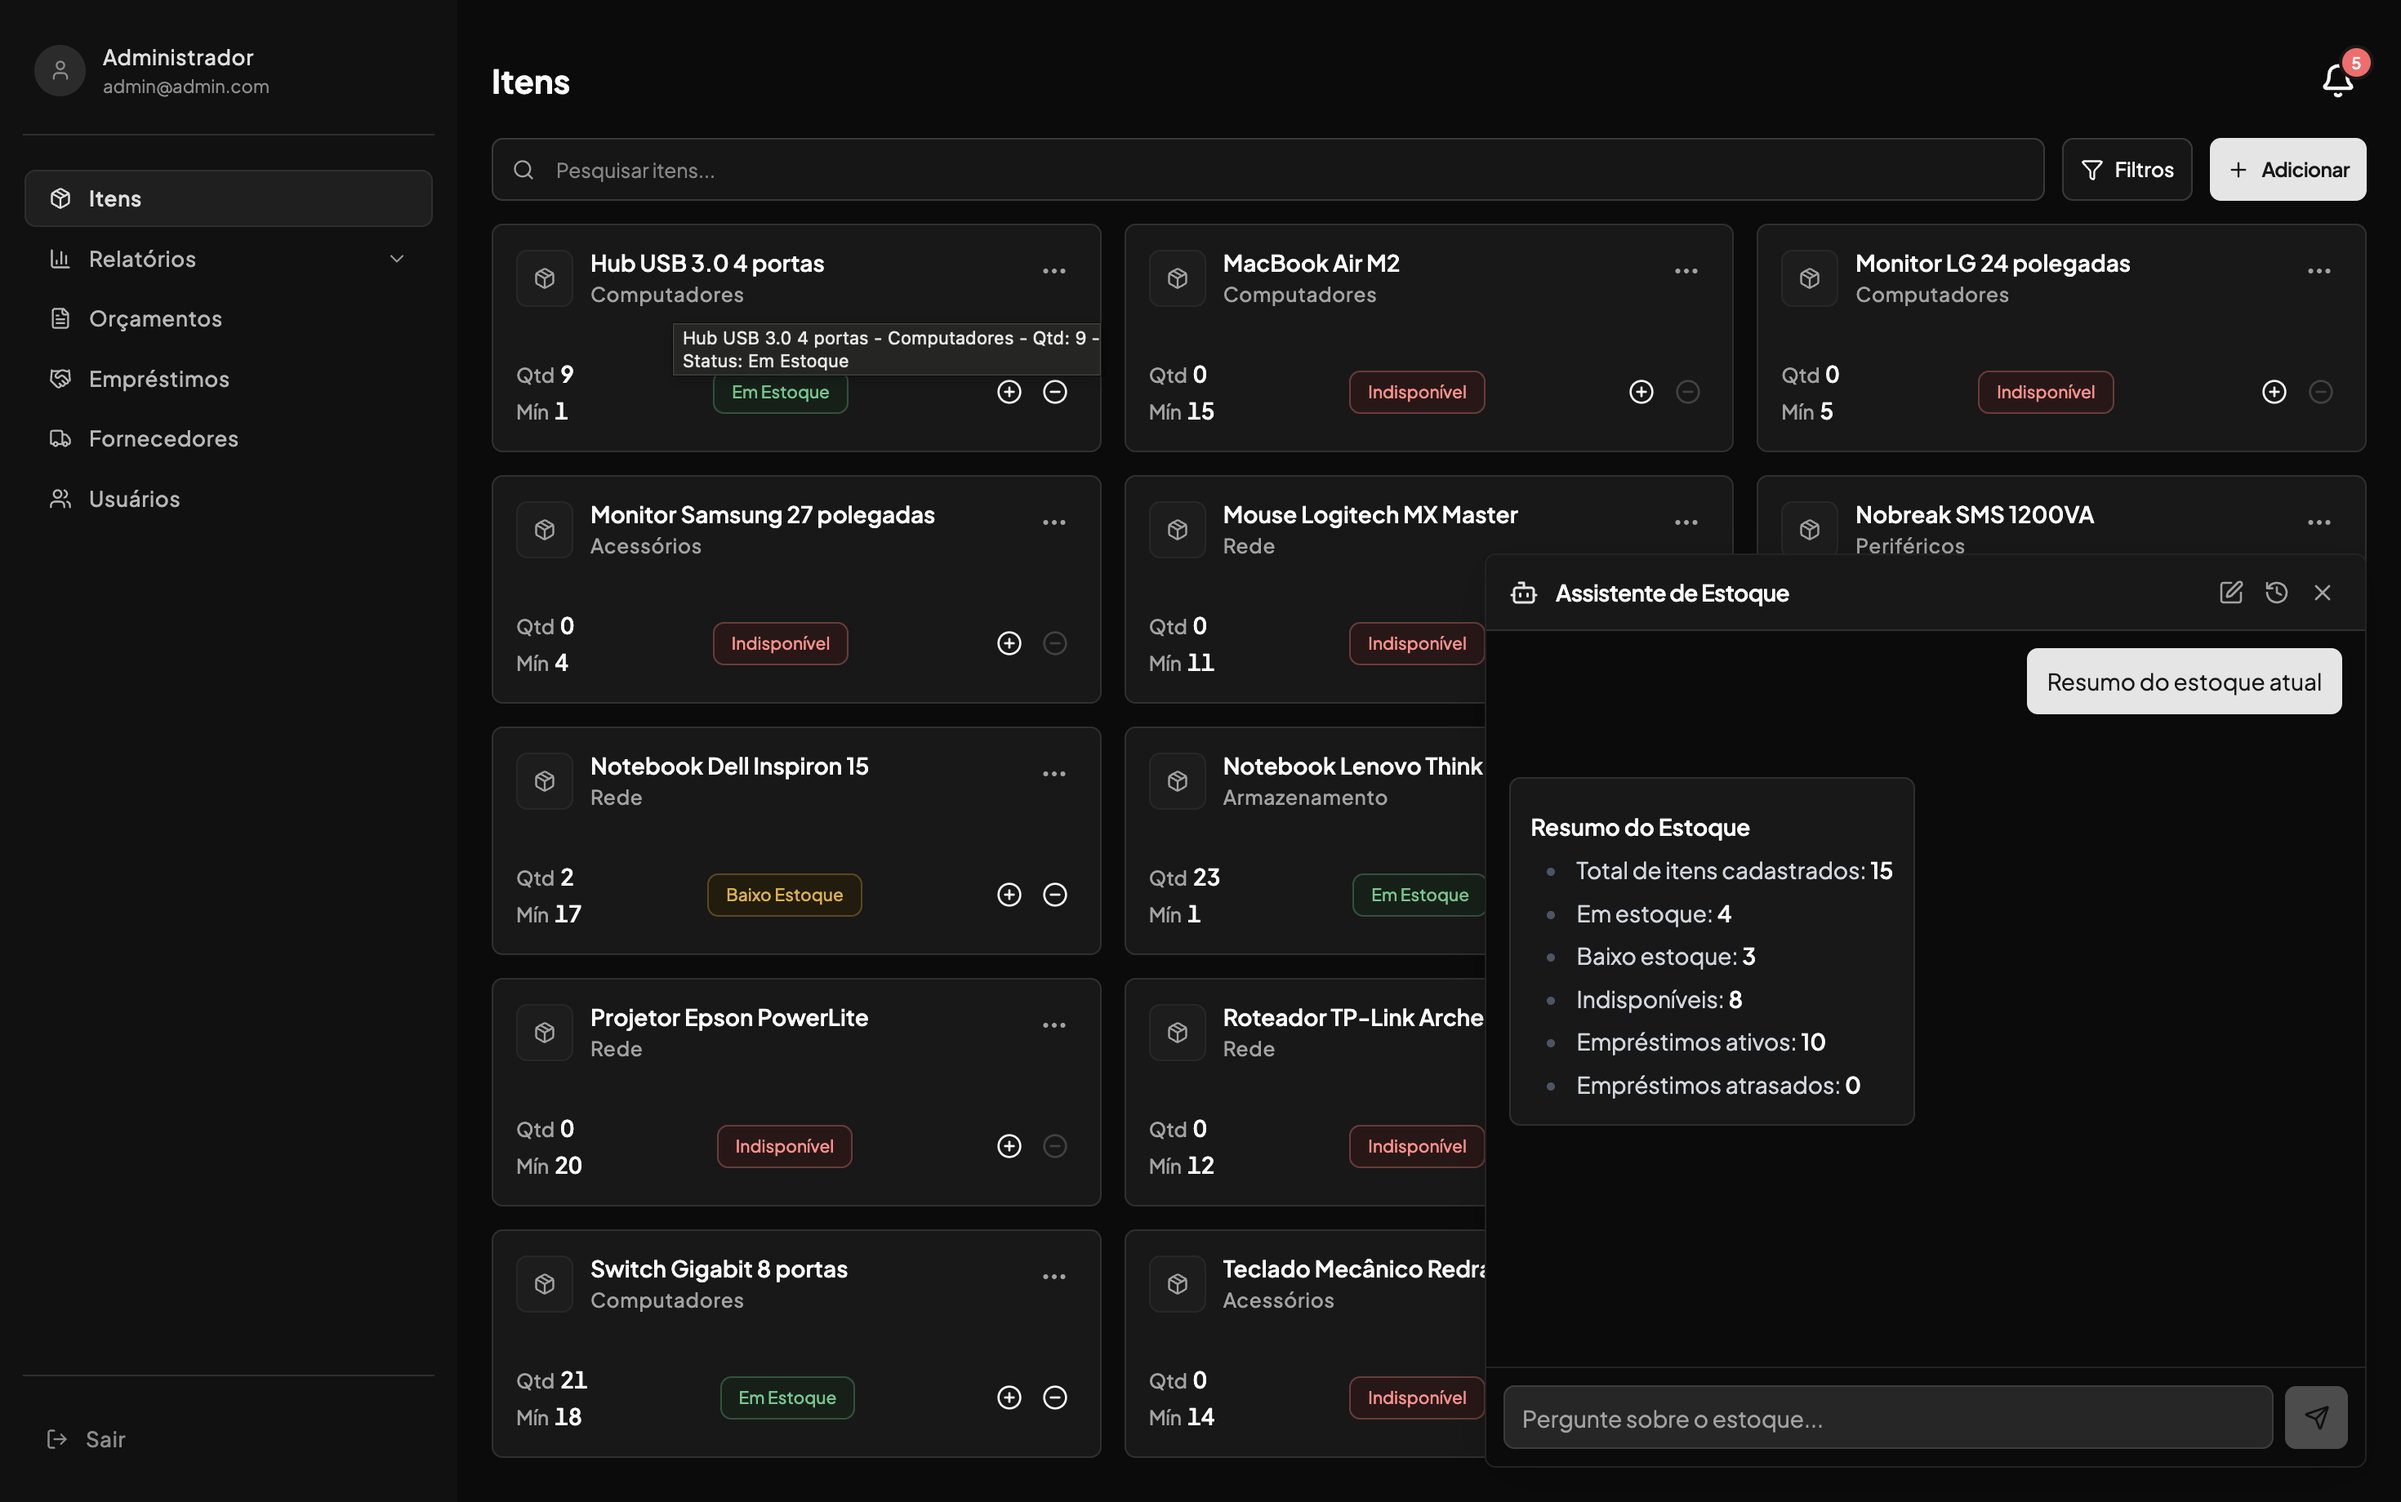
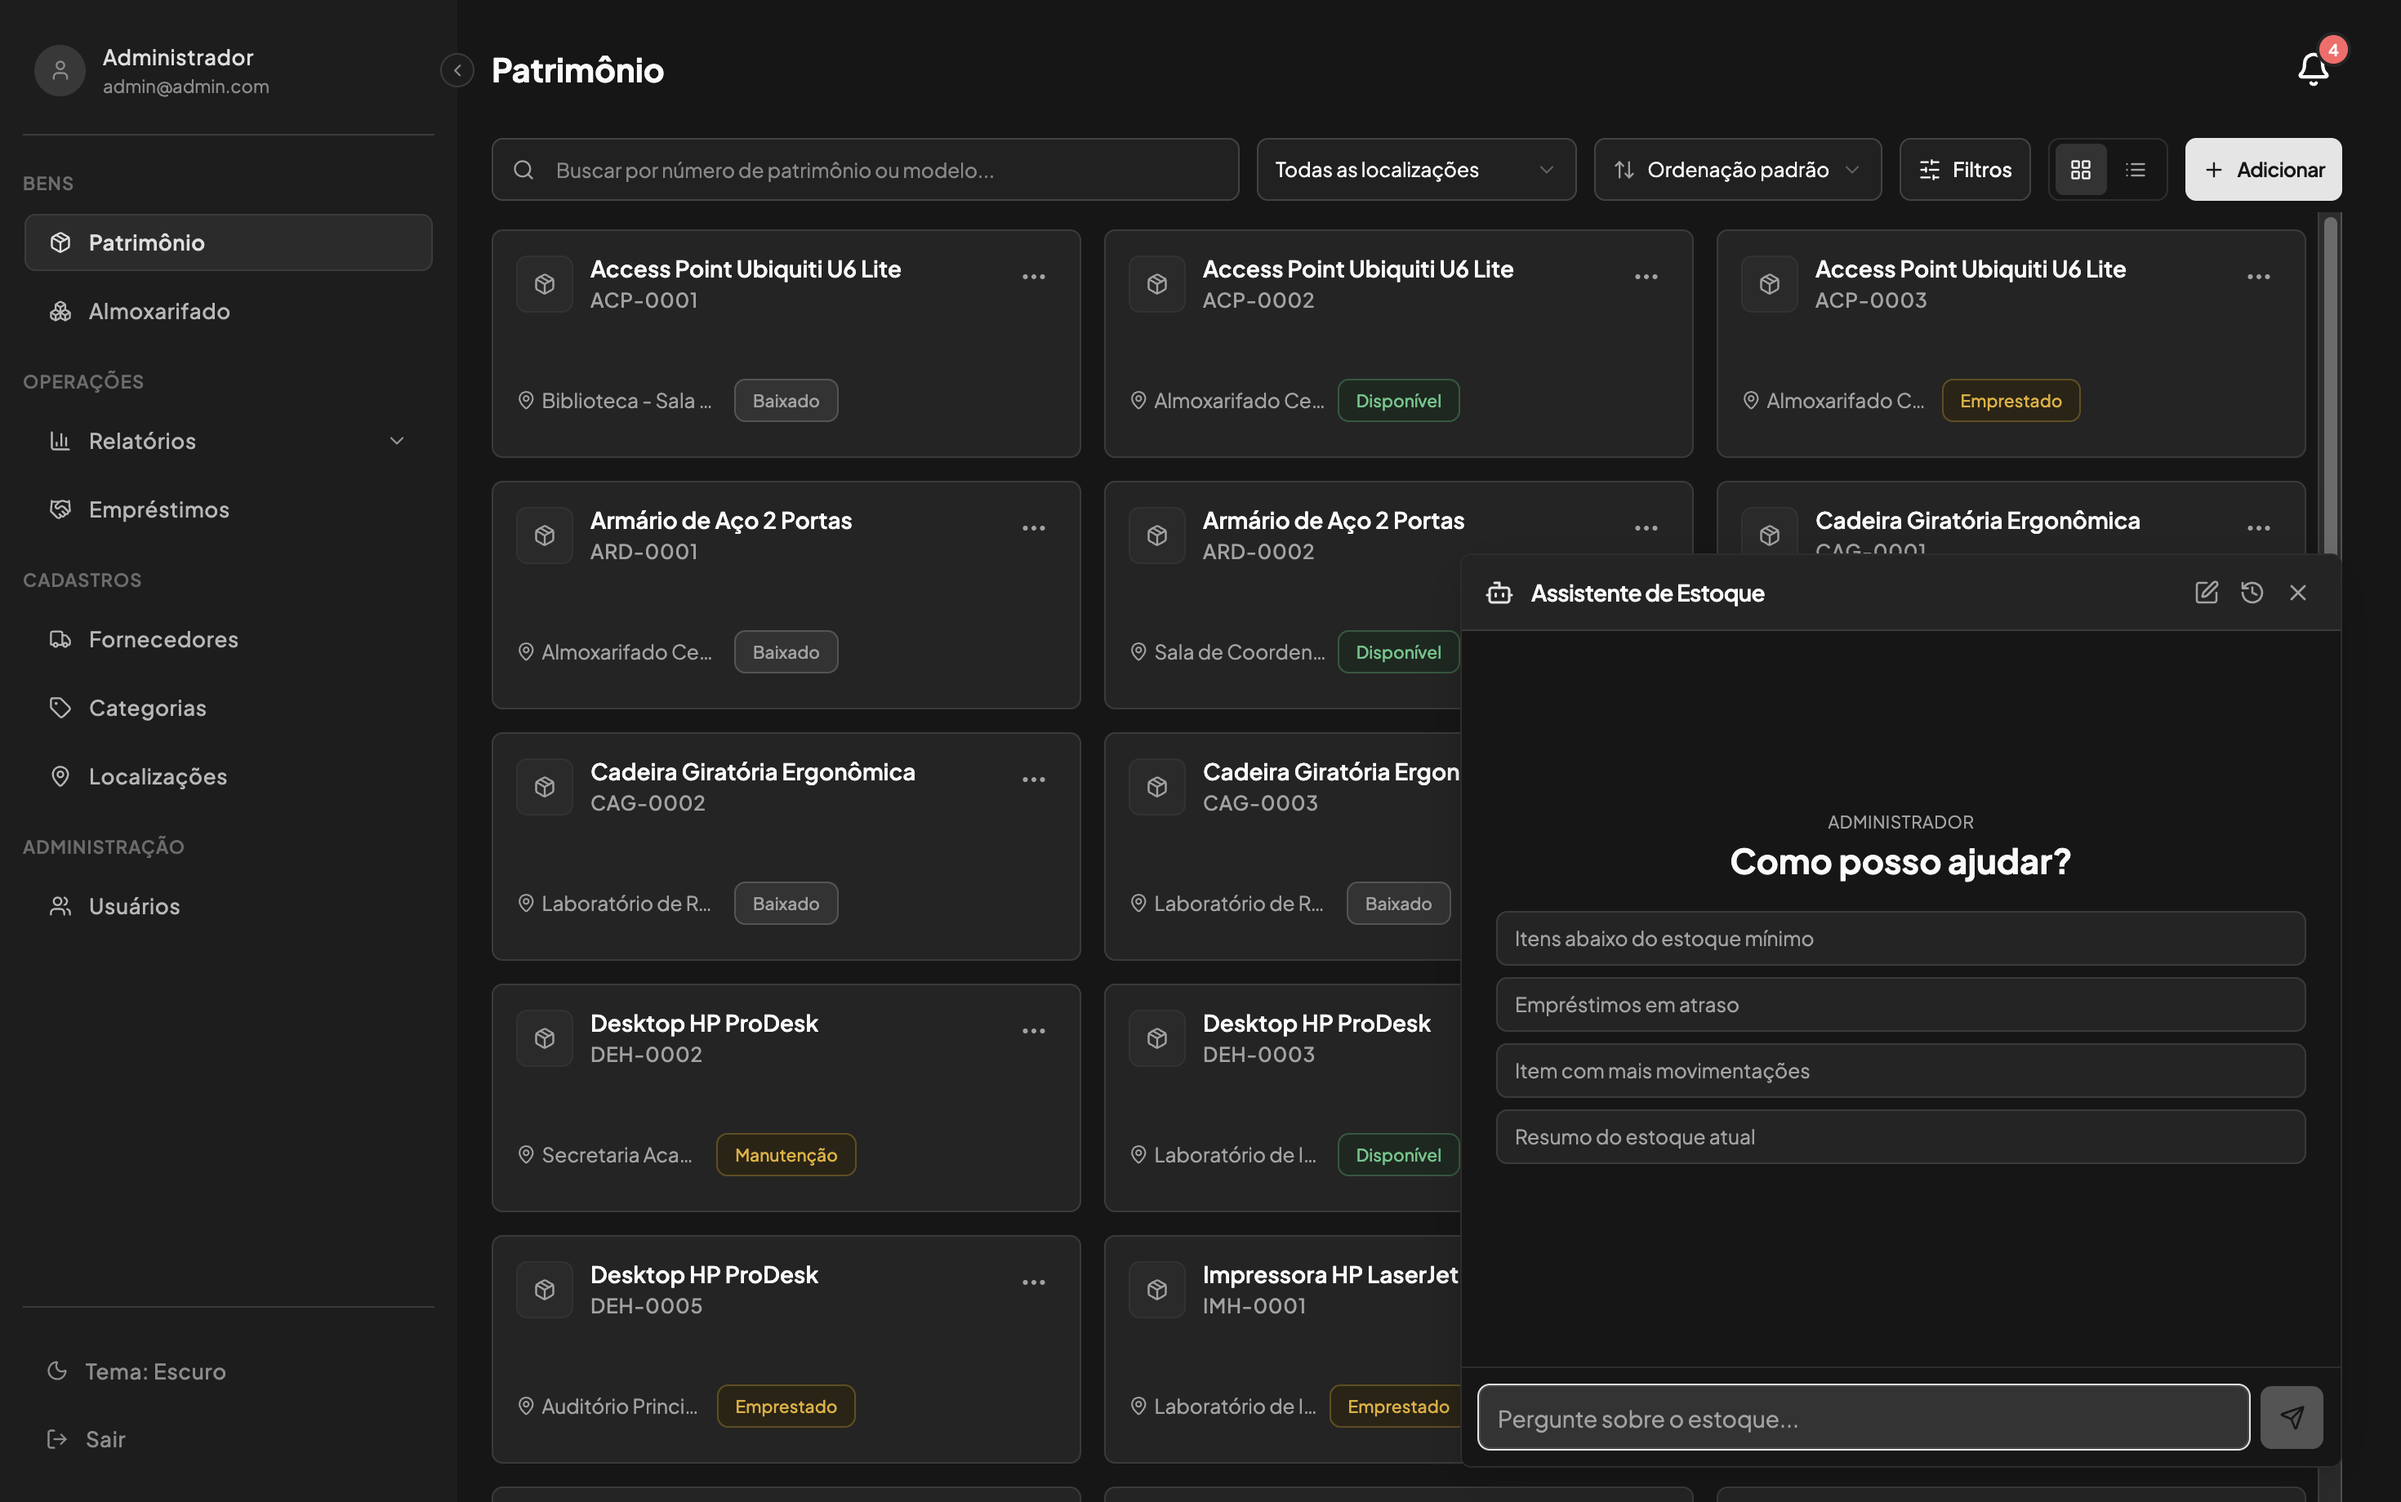
docs: atualiza e reorganiza capturas de tela do README
Substitui prints antigas por versões atuais e reordena na sequência
da sidebar (Bens → Operações → Cadastros → Administração), com Login
e Perfil no topo e Assistente de IA logo após Perfil. Remove a print
de Relatórios (decisão deliberada) e a antiga dashboard-itens (rota
/itens já não existe mais).

Fecha #39

Claude-Session: https://claude.ai/code/session_01Cn1G9ifHYXFWRQPASZzhNu

diff --git a/README.md b/README.md
@@ -30,17 +30,32 @@ Repositórios do projeto no grupo GitLab [`estoque-inteligente`](https://gitlab.
 **Login**
 ![Login](docs/screenshots/login.png)
 
-**Listagem de itens**
-![Listagem de itens](docs/screenshots/dashboard-itens.png)
+**Perfil**
+![Perfil](docs/screenshots/perfil.png)
 
 **Assistente de IA**
 ![Chat com IA](docs/screenshots/chat-ia.png)
 
-**Relatórios**
-![Relatórios](docs/screenshots/relatorios.png)
+**Patrimônio**
+![Patrimônio](docs/screenshots/patrimonio.png)
 
-**Perfil**
-![Perfil](docs/screenshots/perfil.png)
+**Almoxarifado**
+![Almoxarifado](docs/screenshots/almoxarifado.png)
+
+**Empréstimos**
+![Empréstimos](docs/screenshots/emprestimos.png)
+
+**Fornecedores**
+![Fornecedores](docs/screenshots/fornecedores.png)
+
+**Categorias**
+![Categorias](docs/screenshots/categorias.png)
+
+**Localizações**
+![Localizações](docs/screenshots/localizacoes.png)
+
+**Usuários**
+![Usuários](docs/screenshots/usuarios.png)
 
 ## Funcionalidades
 
